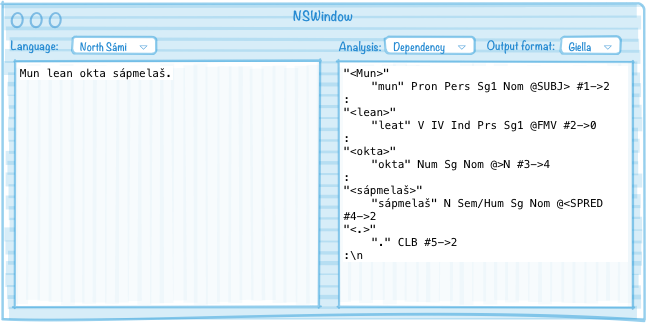
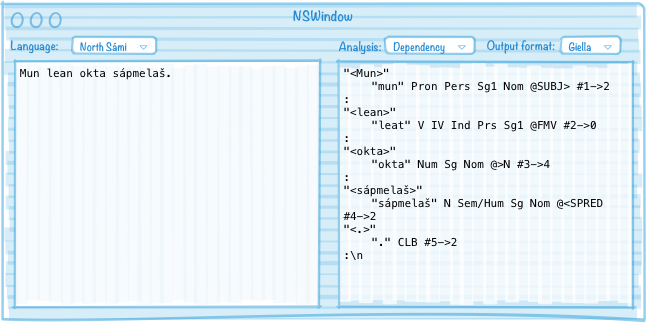
Finished the GUI analyser document; tweaked mockup

Changed region(s): [[0.5263, 0.9288, 0.9907, 0.9598], [0.5263, 0.1858, 0.9598, 0.2167]]

diff --git a/GUITextAnalyser.md b/GUITextAnalyser.md
@@ -1,16 +1,29 @@
 # Graphical text analysis application for linguists
 
 * paste text, get analysed text in a different window/pane:
-    * trestruktur
-    * Ulike alternativ for formattering av analysen
-    * kopier analysen i passande format, slik at ein enkelt kan lima inn i andre program (som døme når ein skriv artiklar m.m.)
-testing og vurdering av programmet
-* automatisk oppdaterte språkpakker via Páhkat
-* a graphical wrapper around libdivvun + zcheck files:
+    * syntactic tree structure/dependency tree
+    * there should be different formatting/rendering options for the analysis
+      output (see mockup below)
+    * it should be possible to copy the displayed analysis in a suitable format
+      (specified in the app settings), so that one can easily paste it into
+      other applications, e.g. when writing academic papers
+* analysers/processing pipelines (one pr language) should be automatically
+  updated via the Páhkat repository
+    * does this mean that we need/want a Páhkat client for Linux? Or could it be
+      embedded in the GUI app if this is the only use case for Páhkat on Linux?
+* the app is essentiallly a graphical wrapper around libdivvun + `zcheck` files:
     * text used as input to libdivvun in one pane
     * output appears in the other pane
-* versjon både for mac, win og linux
-* jf [Apertium Simpleton](http://wiki.apertium.org/wiki/Apertium_Simpleton_UI)
+    * processing is done as specified in the `zcheck` file for the given
+      language
+* the application should be made for all of macOS, Windows and Linux using
+  native code for the UI parts. No generic UI libraries should be used!
+  This is done to get application behavior and look&feel that properly follows
+  the guidelines and user expectations of each platform
+
+Also have a look at
+[Apertium Simpleton](http://wiki.apertium.org/wiki/Apertium_Simpleton_UI) for
+inspiration.
 
 GUI mockup:
 
@@ -25,6 +38,7 @@ GUI mockup:
     * common formats used in scientific literature
 * the default format should be setable in the app settings
 * the mockup above is in no way binding, it is just to visualise the basic functionality of the app
+* the file suffix `zcheck` is used in this specification for the file containing the linguistic data and the actual pipeline specifications, as that is the suffix used for a similar pipeline file for grammar checking. In the final app the file suffix could be different.
 
 # Target user group
 
